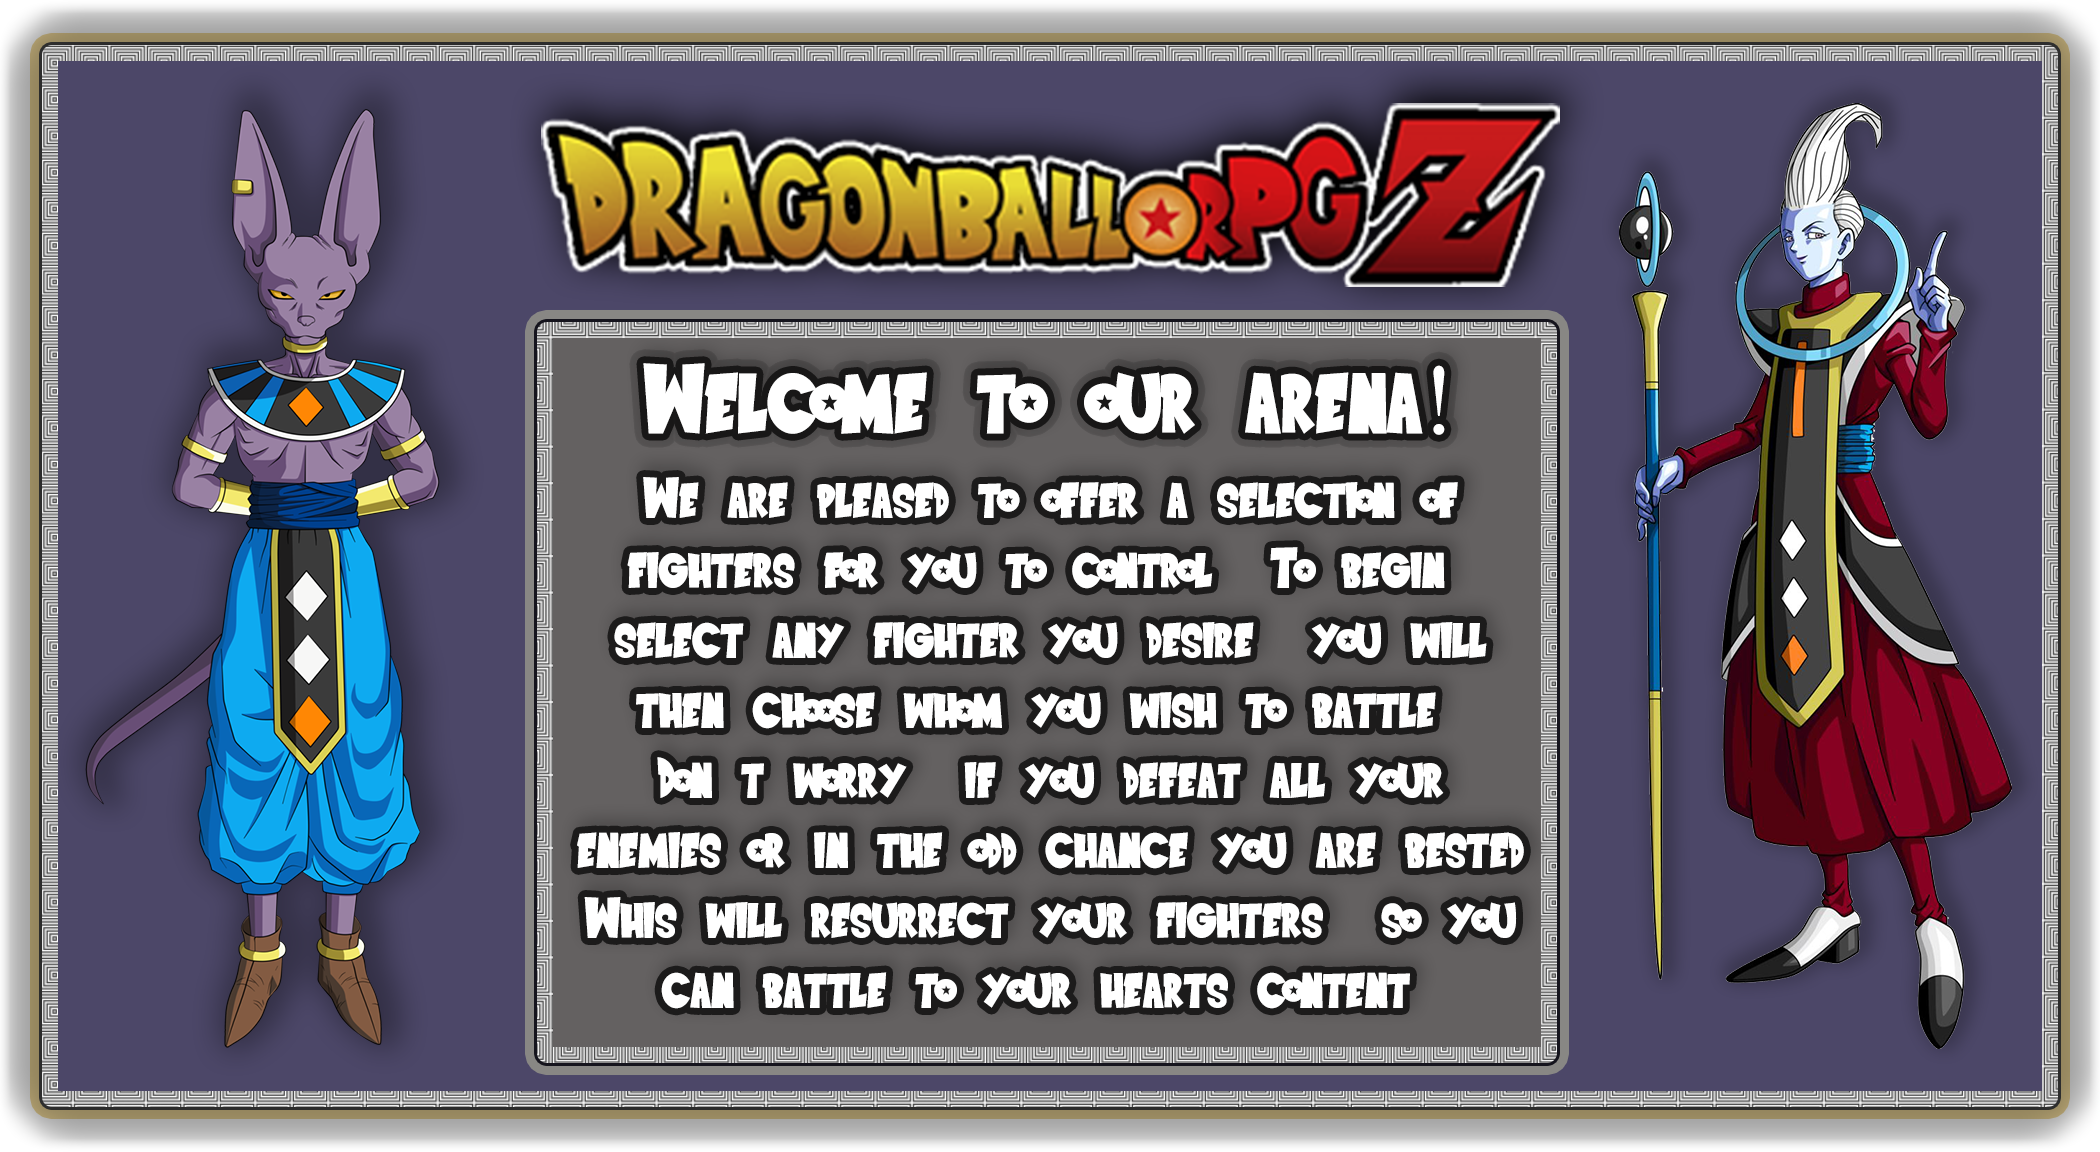
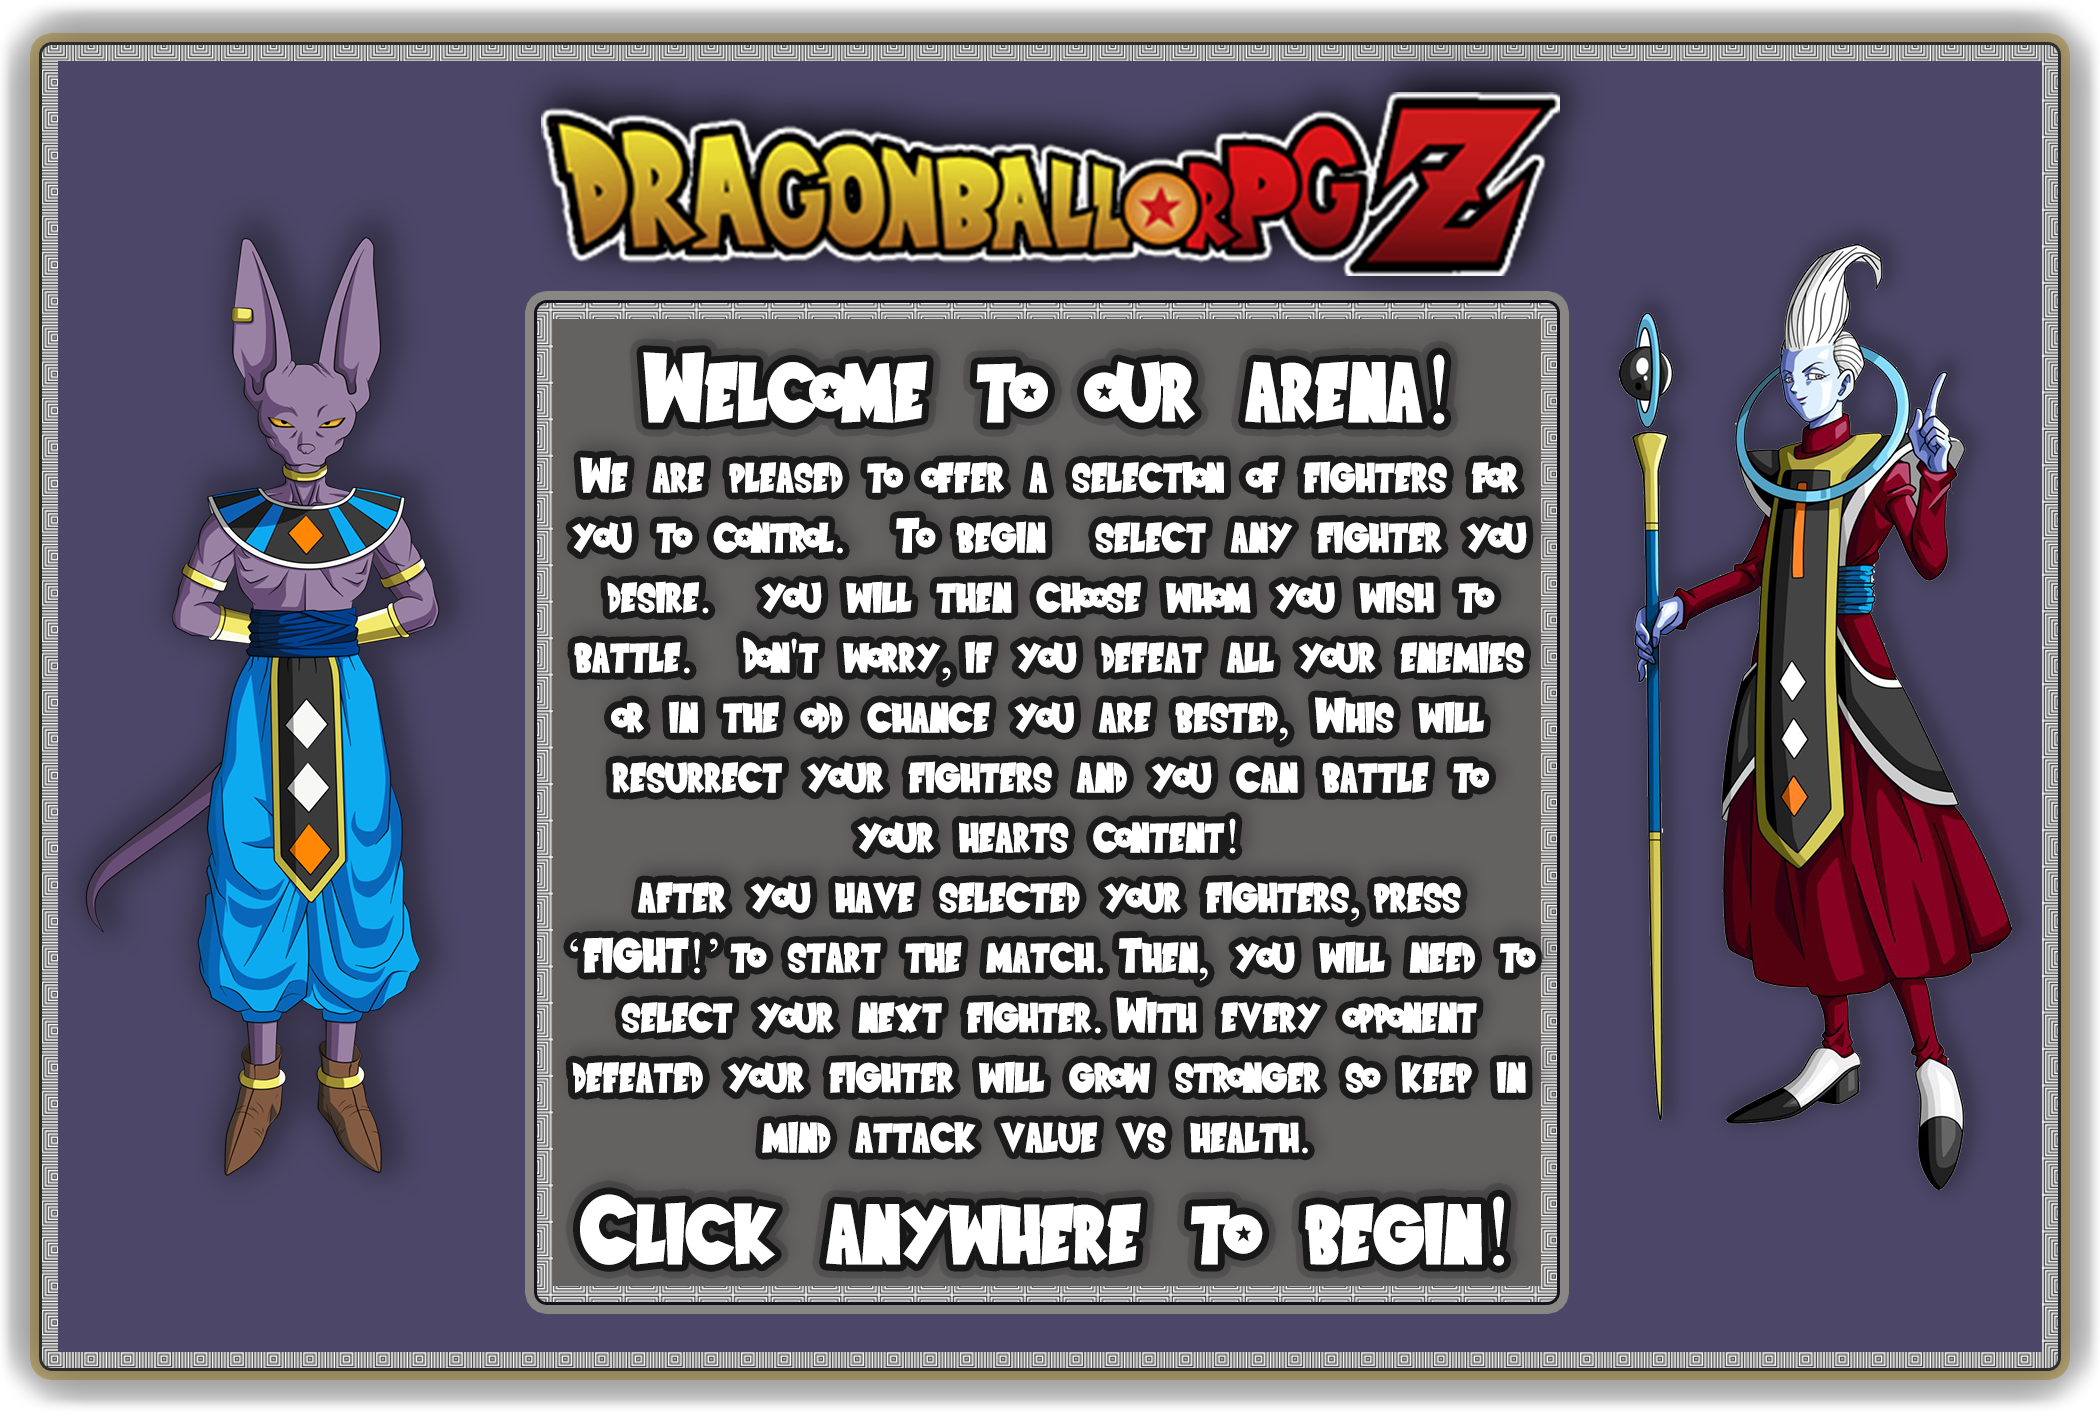
completed HTML/css foundation need to work on jquery integration for game events. html is set to what it will look like on load and will change depending on game events. need to look into cloud storage for image assets to keep file size low

diff --git a/index.html b/index.html
@@ -6,36 +6,40 @@
     <meta http-equiv="X-UA-Compatible" content="ie=edge">
     <link rel="stylesheet" href="https://stackpath.bootstrapcdn.com/bootstrap/4.1.3/css/bootstrap.min.css" integrity="sha384-MCw98/SFnGE8fJT3GXwEOngsV7Zt27NXFoaoApmYm81iuXoPkFOJwJ8ERdknLPMO" crossorigin="anonymous">
     <link rel="stylesheet" href="assets/css/style.css">
+    <link rel="icon" href="assets/images/favicon.png" type="image/x-icon">
     <title>Dragonball | RPG</title>
 </head>
 <body>
     <nav class="navbar navbar-light">
             <a href="#" class="navbar-brand"></a>
-            <img src="assets/images/navlogo.png" alt="DragonballRPG" class="d-inline-block align-middle mx-auto">
+            <img src="assets/images/navlogo.png" alt="DragonballRPG" class="d-inline-block align-middle mx-auto img-responsive">
     </nav>
     <br>
     <div class="container bg-transparent rounded text-light">
         <div class="p-4">
             <div class="row">
+                <!--This is where characters will sit while awaiting selection - once enemy is selected this area will be removed by
+                and be replaced with a text field DIV that tells the player how much damaged dealt/taken. 
+                Text box will be replaced using the last "filler" div in this section-->
                 <div class="col"></div>
                 <div class="col">
                     <h5 class="text-center">Goku</h5>
-                    <img src="assets/images/goku/gokuavatar.png" alt="goku" class="img-fluid img-thumbnail bg-dark">
+                    <img src="assets/images/goku/gokuavatar.png" alt="goku" class="img-fluid img-thumbnail bg-dark img-responsive">
                     <p class="text-center font-italic">500 HP</p>
                 </div>
                 <div class="col">
                     <h5 class="text-center">Vegeta</h5>
-                    <img src="assets/images/vegeta/vegetaavatar.png" alt="vegeta" class="img-fluid img-thumbnail bg-dark">
+                    <img src="assets/images/vegeta/vegetaavatar.png" alt="vegeta" class="img-fluid img-thumbnail bg-dark img-responsive">
                     <p class="text-center font-italic">450 HP</p>
                 </div>
                 <div class="col">
                     <h5 class="text-center">Monaka</h5>
-                    <img src="assets/images/monaka/Monakaavatar.png" alt="monaka" class="img-fluid img-thumbnail bg-dark">
+                    <img src="assets/images/monaka/Monakaavatar.png" alt="monaka" class="img-fluid img-thumbnail bg-dark img-responsive">
                     <p class="text-center font-italic">??? HP</p>
                 </div>
                 <div class="col">
                     <h5 class="text-center">Piccolo</h5>
-                    <img src="assets/images/piccolo/piccoloavatar.png" alt="piccolo" class="img-fluid img-thumbnail bg-dark">
+                    <img src="assets/images/piccolo/piccoloavatar.png" alt="piccolo" class="img-fluid img-thumbnail bg-dark img-responsive">
                     <p class="text-center font-italic">425 HP</p>
                 </div>
                 <div class="col">
@@ -44,23 +48,61 @@
                     <p class="text-center font-italic">475 HP</p>
                 </div>
                 <div class="col"></div>
+                <!--This is what the inserted text field will look like-->
+                <!--<div class="col bg-dark img-thumbnail">
+                    <hr class="bg-white">
+                    <p class="text-white text-center">Lorem ipsum dolor sit amet consectetur adipisicing elit. Perspiciatis iusto facere perferendis quos, quia hic nobis rerum deleniti eligendi non itaque pariatur, dolore et similique? Pariatur quod accusantium possimus debitis!</p>
+                    <hr class="bg-white">
+                </div>
+                <br>-->
             </div>
-
             <div class="row">
-                <div class="col-1">
-
+                <div class="col-1 bg-dark rounded img-thumbnail">
+                    <br><br><br><br><br>
+                    <hr class="bg-white">
+                    <!--Populates player selected player-->
+                    <h5 class="text-center">???????</h5>
+                    <img src="assets/images/placeholder.png" class="img-fluid img-thumbnail bg-dark img-responsive">
+                    <br><br>
+                    <div>
+                        <!--Tracks HP and AP as they go up/down and changes based on player selected-->
+                        <h5 class="text-center">Health</h5>
+                        <p class="text-center font-italic">???</p>
+                        <h5 class="text-center">Attack</h5>
+                        <p class="text-center font-italic">???</p>
+                    </div>
+                    <hr class="bg-white">
                 </div>
                 <div class="col">
-                    <img src="assets/images/arena.png" alt="arena" class="img-fluid img-thumbnail bg-dark w-100 position-relative">
-                    <img src="" class="img-fluid fighter h-50 pb-1 position-absolute">
-                    <img src="" class="img-fluid opponent h-50 pb-1 position-absolute">
-                    <img src="" class="img-fluid greeting position-absolute">
-                    <img src="" class="img-fluid prompt h-50 pb-1 position-absolute">
-                    <img src="" class="img-fluid notify pb-1 position-absolute">
-                    <img src="" class="img-fluid restart pb-1 position-absolute">
+                    <img src="assets/images/arena.png" alt="arena" class="img-fluid img-thumbnail bg-dark w-100 position-relative img-responsive">
+                    <!--Player selected fighter will populate into this div putting fighter in the arena-->
+                    <img src="" class="img-fluid fighter h-50 pb-1 position-absolute img-responsive">
+                    <!--Player selected opponent will populate into this div putting opponent in the arena-->
+                    <img src="" class="img-fluid opponent h-50 pb-1 position-absolute img-responsive">
+                    <!--Gamestart/pageload image is populated into this div that has rules/directions and click anywhere to begin-->
+                    <img src="assets/images/gamerules.png" class="img-fluid greeting position-absolute img-responsive">
+                    <!--After game start this populates with choose your fighter or opponent-->
+                    <img src="assets/images/notify/choosefighter.png" class="img-fluid prompt h-50 pb-1 position-absolute img-responsive">
+                    <!--Will display "FIGHT!, DEFEAT!, or VICTORY!" depending on game stage-->
+                    <img src="" class="img-fluid notify pb-1 position-absolute img-responsive">
+                    <!--Will display a "PLAY AGAIN?" prompt, when clicked game will reload to fighter selection-->
+                    <img src="" class="img-fluid restart pb-1 position-absolute img-responsive">
                 </div>
-                <div class="col-1">
-                    
+                <div class="col-1 bg-dark rounded img-thumbnail">
+                    <br>
+                    <!--This is where enemy's populate after user selection is made-->
+                    <h5 id="enemy1" class="text-center">???????</h5>
+                    <img id="enemy1pic" src="assets/images/placeholder.png" class="img-fluid img-thumbnail bg-dark img-responsive">
+                    <p id="enemy1hp" class="text-center font-italic">???</p>
+                    <h5 id="enemy2" class="text-center">???????</h5>
+                    <img id="enemy2pic" src="assets/images/placeholder.png" class="img-fluid img-thumbnail bg-dark img-responsive">
+                    <p id="enemy2hp" class="text-center font-italic">???</p>
+                    <h5 id="enemy3" class="text-center">???????</h5>
+                    <img id="enemy3pic" src="assets/images/placeholder.png" class="img-fluid img-thumbnail bg-dark img-responsive">
+                    <p id="enemy3hp" class="text-center font-italic">???</p>
+                    <h5 id="enemy4" class="text-center">???????</h5>
+                    <img id="enemy4pic" src="assets/images/placeholder.png" class="img-fluid img-thumbnail bg-dark img-responsive">
+                    <p id="enemy4hp" class="text-center font-italic">???</p>                    
                 </div>
             </div>
         </div>

diff --git a/assets/css/style.css b/assets/css/style.css
@@ -24,8 +24,7 @@ body {
     top: 0px;
     bottom: 0px;
     margin: auto;
-    margin-bottom: 90px;
-    z-index: 2;
+    z-index: 4;
 }
 
 .prompt {
@@ -33,7 +32,7 @@ body {
     top: 0px;
     bottom: 0px;
     margin: auto;
-    padding-left: 12%;
+    padding-left: 11%;
     z-index: 2;
 }
 
